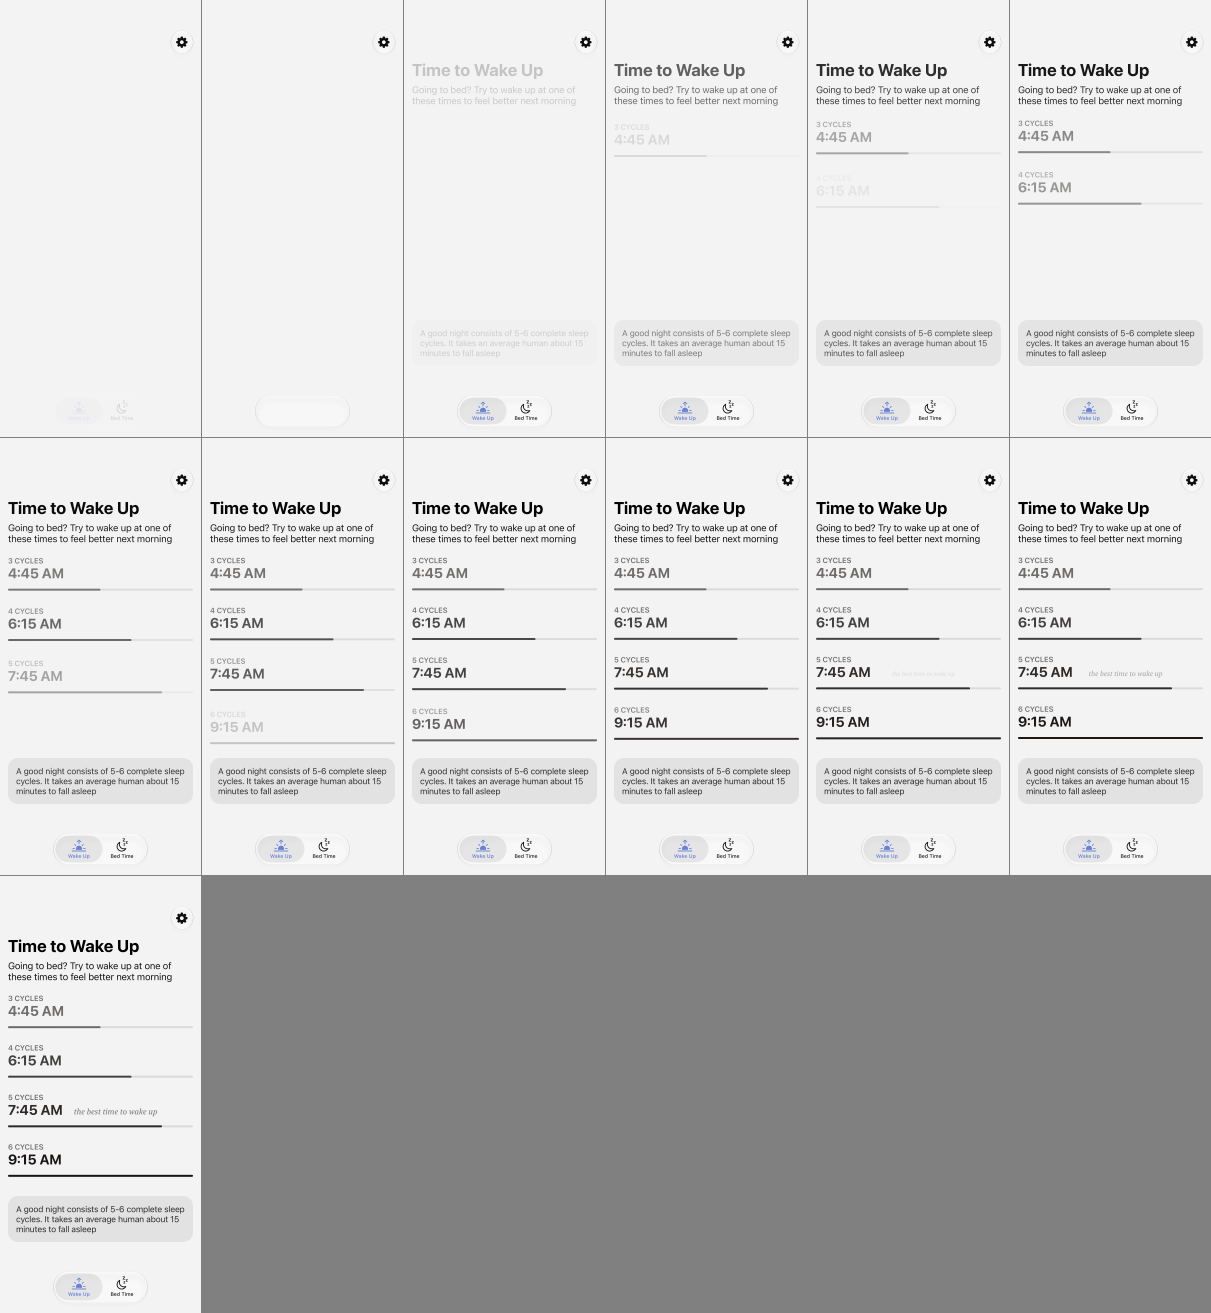
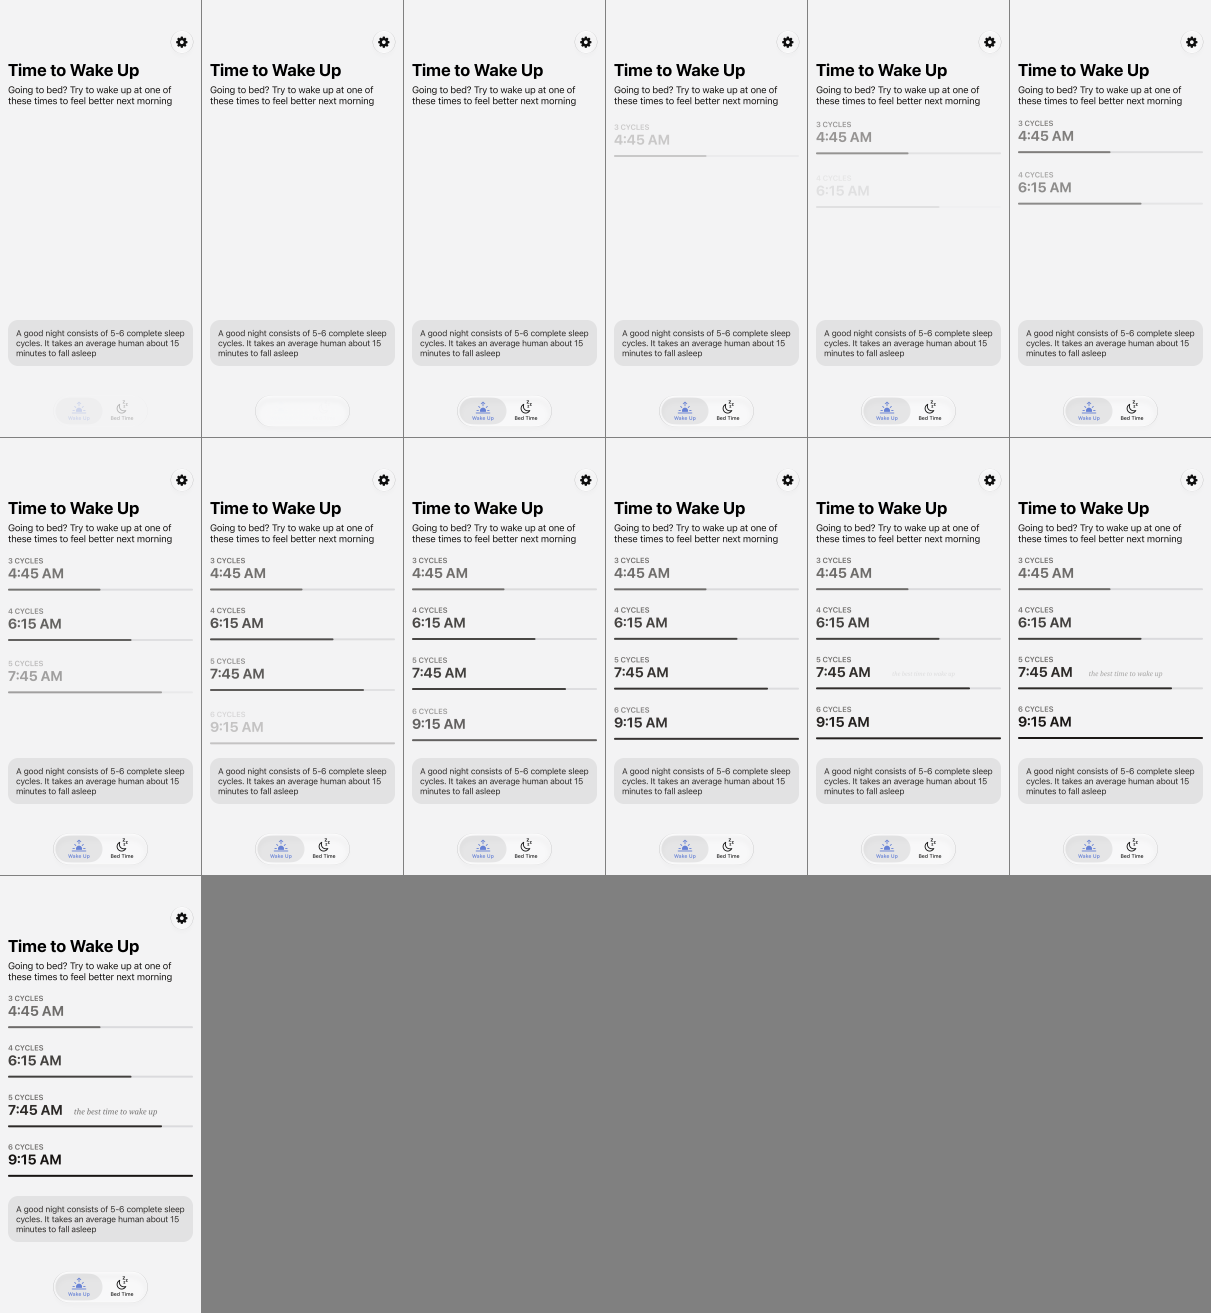
LKM-651: Keep tap targets in place on entry (macOS tests pass)
The Wake Up screen and the tab bar no longer rise in: with a delay and
'both' fill they held their first frame while the test clock was at 0,
leaving tab-bedtime half off screen and the settings button hidden on
macOS. The settings test waits for the intro's 240 ms exit, whose hidden
bar holds macOS's toolbar until it has gone. Re-filmed intro -> Wake Up;
the films README says why there is no film 5 and that Exact refused nothing.

diff --git a/docs/screenshots/LKM-651/README.md b/docs/screenshots/LKM-651/README.md
@@ -5,11 +5,21 @@ left to right, top to bottom. iOS: the `Good Time Check` simulator (402×874 poi
 
 | File | Motion |
 | --- | --- |
-| `ios/1-intro-to-wakeup.png` | The arrow pressed: Wake Up rises in, its rows stagger, the best-time badge pops, the tab bar rises. |
-| `web/1-intro-to-wakeup.png` | The same on the web, where the intro's exit (fade, drift left) also plays. |
+| `ios/1-intro-to-wakeup.png` | The arrow pressed: Wake Up's rows stagger in and the best-time badge pops. The screen and the tab bar are in place at frame 0. |
+| `web/1-intro-to-wakeup.png` | The same on the web (headless Chromium, the page's own tab bar). |
 | `ios/2-tab-to-bedtime.png` | Bed Time selected: the panel springs up and its rows stagger in. |
 | `ios/3-picker-spring.png` | 6:30 picked: the picker and header spring, the new bed times rise in. |
 | `ios/4-tab-to-wakeup.png` | Back to Wake Up: the panel springs up. |
 | `ios/6-reduced-motion-intro.png` | Reduce Motion on: Wake Up is in place at frame 0. |
 | `ios/7-reduced-motion-tab.png` | Reduce Motion on: Bed Time is in place at frame 0. |
 | `ios/8-reduced-motion-picker.png` | Reduce Motion on: the new bed times replace the old at once. |
+
+There is no film 5. It was meant to show the settings button's press scale, but that button sits in the native top
+bar (UINavigationBar), and the agent can't hold a native bar button down for a film.
+
+The Wake Up screen and the tab bar used to rise in too (`rise`, `barRise`, with a delay and `both` fill). They were
+dropped: an entrance that holds its first frame left the tab bar half off screen and Wake Up's settings button hidden
+until time moved, which failed the macOS Contract tests.
+
+Exact refused nothing in this pass, so there is no refusal ID. Andrei's SwiftUI wish list was asked for on LKM-651 and
+hasn't been answered yet; anything on it that Exact refuses will be listed here with its refusal ID.

diff --git a/exact-app/AGENTS.md b/exact-app/AGENTS.md
@@ -51,7 +51,7 @@ system's Reduce Motion): with it on, every `animation`, `transition`, exit and p
 
 | What | How |
 | --- | --- |
-| Intro → Wake Up | The intro leaves with `-exact-exit-animation` (`introLeave`: fade, drift left; filmed on the web; on iOS the intro and Wake Up share one route, which swaps at once), the Wake Up screen rises in (`rise`), the tab bar rises after it (`barRise`). |
+| Intro → Wake Up | The intro leaves with `-exact-exit-animation` (`introLeave`: fade, drift left; filmed on the web; on iOS the intro and Wake Up share one route, which swaps at once), then Wake Up's time rows rise in. The screen and the tab bar themselves don't animate in: an entrance that holds its first frame left the tab bar off screen and the settings button hidden until the clock moved (macOS tests). |
 | Time rows | Each row rises in with a 70 ms stagger; "the best time to wake up" pops in (`badgePop`). Bed Time's rows are keyed by their time too, so a picked wake-up time replays them; Wake Up's are not, since they follow the clock every minute. |
 | Tab change | The panel fades and springs up (`-exact-spring(320, 30, 1)`); the tab's icon springs larger where the tab bar is ours (web, macOS; iOS uses UIKit's tab bar). |
 | Time picker | A picked time sets `bumping` for 140 ms (task `unbump`): the picker and the Bed Time header spring to a slightly larger scale and back. |
